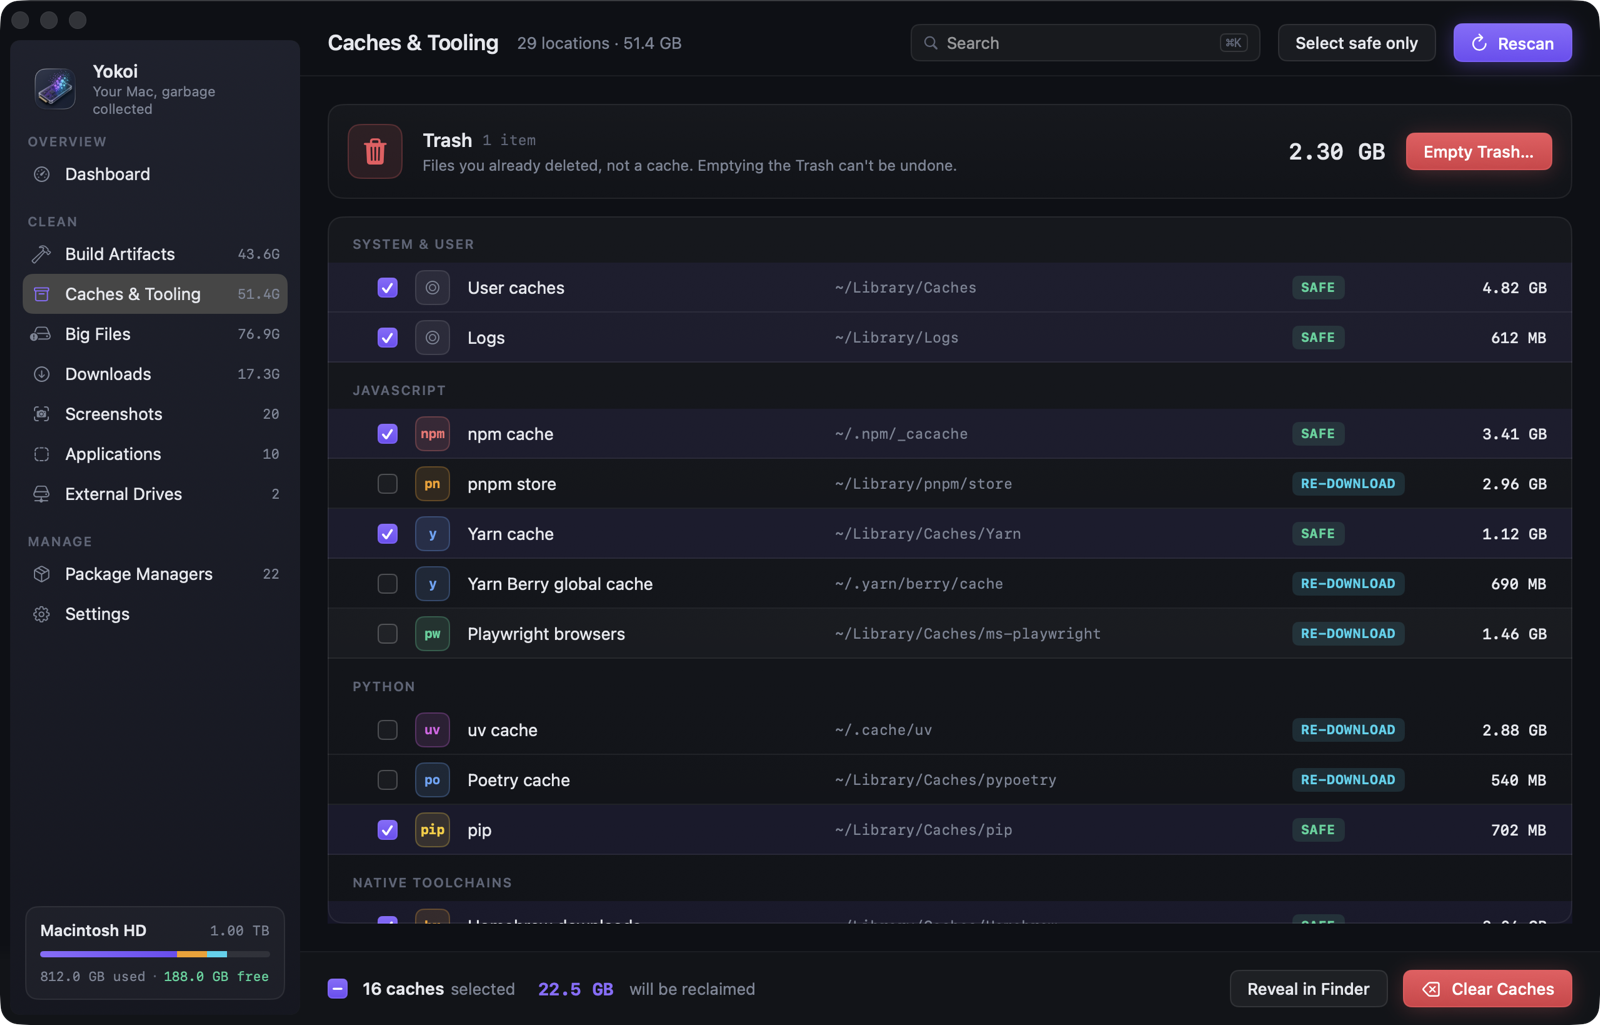
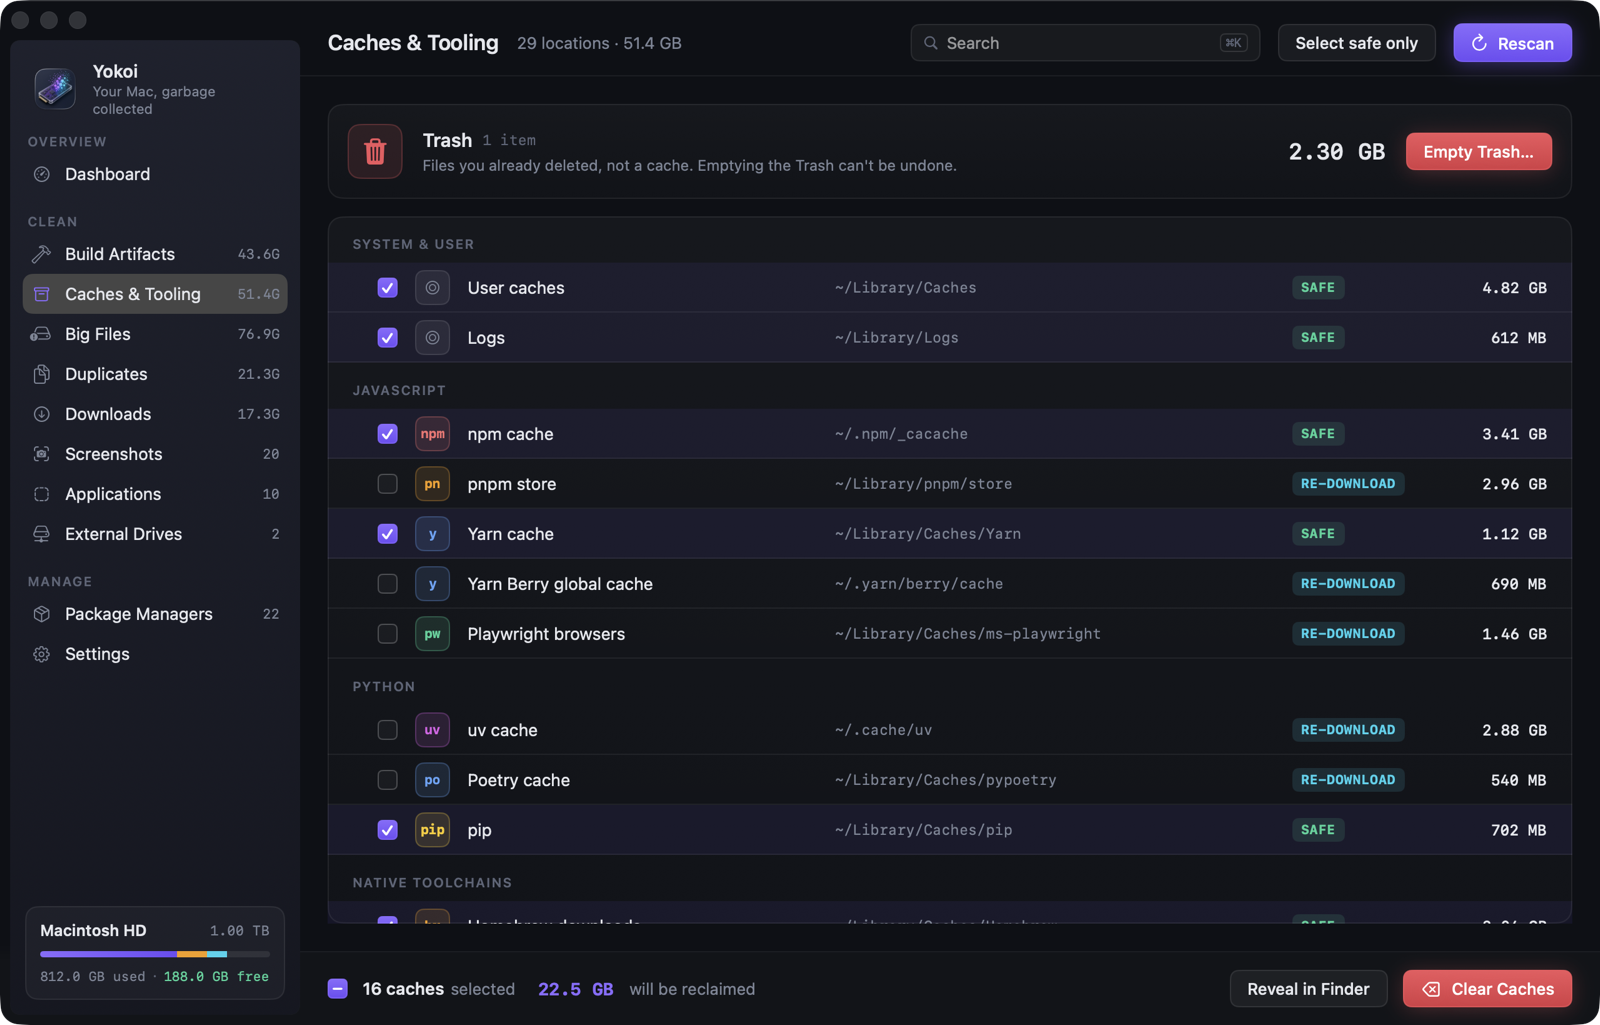
Document the duplicate finder and refresh the screenshots

Changed region(s): [[0.0, 0.3434, 0.125, 0.6556]]

diff --git a/site/index.html b/site/index.html
@@ -81,7 +81,7 @@
       <div class="wrap">
         <figure class="shot shot-hero reveal">
           <div class="shot-glow" aria-hidden="true"></div>
-          <img src="img/dashboard.webp" width="1600" height="1025" alt="Yokoi dashboard: 203 GB reclaimable, broken down by category, with recent cleanups and top offenders" fetchpriority="high">
+          <img src="img/dashboard.webp" width="1600" height="1025" alt="Yokoi dashboard: 218 GB reclaimable, broken down by category, with recent cleanups and top offenders" fetchpriority="high">
         </figure>
       </div>
     </section>
@@ -132,6 +132,12 @@
           <h3>Big files</h3>
           <p>Videos, archives, disk images, VMs, 3D and art files, found with a log-scale slider from 100&nbsp;MB to 10&nbsp;GB+.</p>
           <p class="rule">Filter by type, then reveal in Finder or clean.</p>
+        </article>
+        <article class="card reveal" style="--c:#2DD4BF">
+          <div class="card-top"><span class="ico">👯</span><span class="badge mono">SHA-256</span></div>
+          <h3>Duplicates</h3>
+          <p>Files with identical contents across your big-file locations, or in one folder you choose.</p>
+          <p class="rule">One copy always stays. Copies that are all inside git repos aren't listed unless you choose that folder.</p>
         </article>
         <article class="card reveal" style="--c:#34D399">
           <div class="card-top"><span class="ico">⬇</span><span class="badge mono">~/Downloads</span></div>
@@ -197,6 +203,7 @@
         <button role="tab" aria-selected="true" data-shot="npm-node-modules" data-cap="Every node_modules folder, stale ones preselected">node_modules</button>
         <button role="tab" aria-selected="false" data-shot="build-artifacts" data-cap="Build artifacts grouped by toolchain, matched by marker files">Build artifacts</button>
         <button role="tab" aria-selected="false" data-shot="caches" data-cap="Caches &amp; Tooling tagged Safe, Re-download or Review, with the Trash on its own">Caches &amp; Tooling</button>
+        <button role="tab" aria-selected="false" data-shot="duplicates" data-cap="Identical files, grouped, with one copy always kept">Duplicates</button>
         <button role="tab" aria-selected="false" data-shot="applications" data-cap="Uninstall apps together with their leftovers">Applications</button>
         <button role="tab" aria-selected="false" data-shot="package-managers" data-cap="Outdated and unused global packages">Packages</button>
         <button role="tab" aria-selected="false" data-shot="screenshots" data-cap="File screenshots by month, or clear them out">Screenshots</button>
@@ -222,6 +229,7 @@
           <div class="srow reveal"><span class="sdot" style="--c:#7C5CFF"></span><div><h4>Dry run</h4><p>Preview exactly what would happen, with sizes, without touching a byte.</p></div></div>
           <div class="srow reveal"><span class="sdot" style="--c:#22D3EE"></span><div><h4>Scoped access</h4><p>Each category can only touch its own folders. Keychains, Mail, Messages, iCloud Drive, Photos, <code>/System</code> and <code>.git</code> are blocked unconditionally.</p></div></div>
           <div class="srow reveal"><span class="sdot" style="--c:#F59E0B"></span><div><h4>Busy means no</h4><p>Projects open in Xcode, Unity, Unreal or a running <code>node</code> process are refused, checked when you confirm and again right before acting. Recently touched projects start unchecked.</p></div></div>
+          <div class="srow reveal"><span class="sdot" style="--c:#2DD4BF"></span><div><h4>One copy stays</h4><p>The duplicate finder won't let you pick every copy of a file. Right before removing a copy, Yokoi reads it and a copy being kept again, and refuses if they no longer match.</p></div></div>
           <div class="srow reveal"><span class="sdot" style="--c:#F0565E"></span><div><h4>No escalation, symlink-proof</h4><p>Never runs <code>sudo</code>. Tools run without a shell, from a full path you see before confirming, and only from folders you or an administrator control. Symlinks are removed, never followed, and paths are re-checked at their real location.</p></div></div>
           <div class="srow reveal"><span class="sdot" style="--c:#60A5FA"></span><div><h4>Everything is logged</h4><p>Every cleanup goes to <code>cleanup.log</code> with path, size, action and where it went.</p></div></div>
         </div>

diff --git a/site/styles.css b/site/styles.css
@@ -182,6 +182,7 @@ h2 { margin: 0; font-size: clamp(30px, 4.4vw, 46px); line-height: 1.1; letter-sp
 
 /* Category cards */
 .cards { display: grid; grid-template-columns: repeat(3, 1fr); gap: 16px; }
+.cards > .card:last-child:nth-child(3n + 1) { grid-column: 1 / -1; }  /* no lone card on the last row */
 .card {
   position: relative; padding: 22px; border-radius: var(--r); overflow: hidden;
   background: linear-gradient(180deg, var(--card), var(--card-2)); border: 1px solid var(--stroke);
@@ -340,6 +341,7 @@ kbd {
   .nav-links { display: none; }
   .nav-cta { margin-left: auto; }
   .cards { grid-template-columns: repeat(2, 1fr); }
+  .cards > .card:last-child:nth-child(3n + 1) { grid-column: auto; }
   .kpis { grid-template-columns: repeat(2, 1fr); }
   .safety, .split { grid-template-columns: 1fr; gap: 40px; }
   .footer-inner { grid-template-columns: 1fr; }

diff --git a/README.md b/README.md
@@ -57,6 +57,7 @@ Yokoi knows where developer clutter lives and what's safe to remove. It shows yo
 | **🗄 Caches & Tooling** | JavaScript (npm, Yarn, pnpm, Bun, Deno, Playwright, Puppeteer, Electron), Python (pip, uv, Poetry), Homebrew, Cargo, Go modules, Gradle, Maven, NuGet, Flutter, SwiftPM, CocoaPods, Xcode and simulators, **Android emulators, system images and build cache**, VS Code, Cursor and JetBrains caches, Docker Desktop and OrbStack, browsers, Ollama / Hugging Face / LM Studio, Trash | Every location is tagged **Safe**, **Re-download** or **Review**. Sizes count only what cleaning frees, so caches shared with projects through hardlinks or clones aren't overstated. Running emulators, simulators, Gradle daemons, editors and Docker block their own caches |
 | **🧰 Tool cleanups** | Unavailable iOS simulators, local Time Machine snapshots, **unused Docker images, Docker build cache and dangling volumes** | Done through the tool itself (`xcrun simctl`, `tmutil`, `docker`), with the exact command shown first. Volumes are listed by name, so nothing created later is swept up |
 | **🐘 Big files** | Videos, archives, disk images, VMs (`.utm`, `.vmdk`…), 3D and art files | Log-scale size slider from 100 MB to 10 GB+, with filters by type |
+| **👯 Duplicates** | Files of 1 MB or more with identical contents, across your big-file locations or in one folder you choose | Compared by SHA-256, only when you ask, because it reads the files. One copy always stays. Copies that are all inside git repos aren't listed unless you choose that folder, and sizes count what removing a copy really frees |
 | **⬇ Downloads** | Everything in `~/Downloads`: installers, archives, media, documents and folders, with when each was added and last opened | Items untouched for 30 days (configurable) count as reclaimable. Incomplete downloads and archives you already extracted are flagged as leftovers; your own files are never preselected |
 | **📸 Screenshots** | Screenshots and screen recordings in your screenshot folder | File them into `YYYY/MM` folders or trash them, by hand or with a daily rule |
 | **🧩 Applications** | Installed apps with size, last opened, and their leftovers in `~/Library` | Uninstalls the app *and* its support files. Apple apps and running apps are locked |
@@ -102,6 +103,10 @@ Adding a language is one entry in a rule table. See [docs/DEVELOPMENT.md](docs/D
     <td><img src="assets/readme/screenshots/external-drives.png" alt="External drive junk: Trash, .DS_Store and AppleDouble files"><br><sub><b>External drives</b> · drive Trash, .DS_Store and ._ files</sub></td>
   </tr>
   <tr>
+    <td><img src="assets/readme/screenshots/duplicates.png" alt="Groups of identical files with the space each copy would free"><br><sub><b>Duplicates</b> · identical files, grouped, with one copy always kept</sub></td>
+    <td><img src="assets/readme/screenshots/downloads.png" alt="Downloads with when each item was added and last opened"><br><sub><b>Downloads</b> · what's in there, and when you last opened it</sub></td>
+  </tr>
+  <tr>
     <td><img src="assets/readme/screenshots/screenshots.png" alt="Desktop screenshots grid with move-to-folder action"><br><sub><b>Screenshots</b> · file them by month, or clear them out</sub></td>
     <td><img src="assets/readme/screenshots/cleaned.png" alt="Cleanup finished"><br><sub><b>Done</b> · what was freed, and Put Back if you change your mind</sub></td>
   </tr>
@@ -120,6 +125,7 @@ Yokoi deletes things for a living, so it's built to be paranoid.
 - **Hands off your life.** Keychains, Mail, Messages, iCloud Drive, cloud storage, Photos libraries, `/System` and `.git` are blocked unconditionally, even if you add them by accident.
 - **Busy means no.** Projects open in Xcode, Unity, Unreal or a running `node` process, running apps, and Android emulators that are booted are refused. Yokoi checks twice: when you confirm and again right before acting.
 - **Recent means careful.** Projects you touched in the last 14 days start unchecked and need an extra confirmation.
+- **One copy stays.** The duplicate finder won't let you pick every copy of a file. Right before removing a copy, Yokoi reads it and a copy being kept again, and refuses if they no longer match.
 - **No escalation.** Yokoi never runs `sudo`. Command-line tools are run without a shell, and arguments are passed literally, so package names can't inject commands.
 - **Trusted tools only.** Each tool (`brew`, `npm`, `docker`…) is looked up once and run from its full path, which the confirmation shows. Folders and files another account could write to are skipped, so a look-alike `npm` dropped somewhere on your `PATH` isn't picked up.
 - **Symlink-proof.** Symlinks are removed, never followed. Paths are checked both as written and with symlinks resolved, and checked again at their real location right before anything is trashed, deleted or moved.
@@ -182,6 +188,7 @@ Yokoi works without it too. It just skips what it can't read.
 - **Scan** from the dashboard or with `⌘⇧R`. Results appear as they're found.
 - **Clean ·** on the dashboard runs *Smart Select*: stale node_modules, artifacts of inactive projects and Safe caches.
 - Search any list with `⌘K`, rescan the current screen with `⌘R`, and clean the selection with `⌘⌫`.
+- **Find duplicates** from the Duplicates screen, across your big-file locations or in one folder. It's separate from the regular scan and isn't part of the reclaimable total, so nothing is counted twice.
 - Optional **menu bar helper** shows free and reclaimable space, with one-click access.
 - Optional **scheduled scans** (daily, weekly or monthly) run at low priority, with a notification when reclaimable space passes a threshold.
 - **Shortcuts and Siri:** *Scan for Reclaimable Space* (returns bytes), *Get Free Disk Space* and *Open Yokoi* on any screen. None of them deletes anything.
@@ -267,6 +274,7 @@ It's the same idea as in a runtime: find what's no longer reachable from your ac
 - [x] Incremental rescans (FSEvents)
 - [x] `yokoi` command-line companion (`yokoi scan --json`)
 - [x] Shortcuts and App Intents
+- [x] Duplicate finder
 - [ ] A separate helper with fewer rights for deleting files and running tools
 
 <br>

diff --git a/docs/PRD.md b/docs/PRD.md
@@ -26,7 +26,6 @@ Developers' Macs fill up with files they can rebuild or re-download: `node_modul
 
 **Non-goals (v1)**
 - General consumer "Mac cleaner" features (mail attachments, language packs, malware, RAM boosting).
-- Duplicate-file detection (could come later).
 - Managing project dependencies beyond deleting folders (no `npm install` orchestration).
 - Windows/Linux versions or cloud sync.
 - Uninstalling apps.
@@ -142,6 +141,17 @@ Developers' Macs fill up with files they can rebuild or re-download: `node_modul
 - Radio choice: **Move to Trash** (default) / **Delete permanently** (red, "cannot be undone").
 - "Don't ask again" only applies to Safe-level items and never to permanent deletion.
 
+### 5.9 Duplicates
+- FR-D1 Find files of 1 MB or more with identical contents (SHA-256), in the big-file locations or in one chosen folder, skipping what Big files skips (FR-F5). The folder must be in a big-file location, since those bound what cleanup may reach.
+- FR-D2 Runs only when asked for. It reads files in full, so full and background scans, the CLI and Shortcuts leave it out. Its bytes aren't in the reclaimable total, because they overlap Big files and Downloads.
+- FR-D3 Group copies by contents, biggest saving first. Each copy shows its path, modified date and what removing it frees. Row actions are Reveal in Finder and Quick Look.
+- FR-D4 Hardlinks count as one file. Groups of APFS clones that would free nothing aren't listed.
+- FR-D5 Groups with every copy inside git work trees aren't listed, unless a folder was chosen. Copies in a repository are tagged and kept first.
+- FR-D6 Nothing is preselected. "Select Extras" picks all but the best copy in each group and never picks a copy in a repository. The best copy is one in a repository, then one outside Downloads, then the shortest path.
+- FR-D7 One copy always stays. The last unpicked copy can't be picked, and cleanup refuses a removal unless the copy still matches its hash and another copy outside that cleanup does too, read again right before acting.
+- FR-D8 Move to Trash, with permanent delete only from the confirmation sheet. No Move to…: a moved copy frees nothing.
+- FR-D9 Cloud-only files are never read, since that would download them. They're listed as not checked, along with unreadable files.
+
 ## 6. Deletion safety model
 | Guardrail | Requirement |
 |---|---|
@@ -219,7 +229,7 @@ Developers' Macs fill up with files they can rebuild or re-download: `node_modul
 |---|---|
 | **MVP (v1.0)** | Dashboard, node_modules, Build Artifacts (Rust, Xcode, Swift PM, Gradle, Python, Unity, Unreal), Caches (Safe + Re-download levels), Big Files, Screenshots (manual move/delete), confirmation sheet, Trash default + dry run + exclusions + active-project protection + log, Settings (locations, exclusions, safety), direct distribution, macOS 14+ |
 | **v1.1** | Package managers (npm -g, pnpm -g, Homebrew formulae/casks, Cargo, pip, gem) with update/uninstall confirmation, screenshot auto rule, scheduling + menu bar helper + notifications, Go/.NET/CMake detectors, Xcode simulators/archives (Review level), undo from log, light mode |
-| **Later (v1.2+)** | FSEvents incremental index, duplicate finder, Docker images/volumes, Android SDK/emulators, conda/poetry/uv, per-project "archive & restore" (lockfile kept, deps removed), CLI companion (`yokoi scan --json`), App Store Lite edition, Shortcuts/AppIntents |
+| **Later (v1.2+)** | FSEvents incremental index, duplicate finder (built, see §5.9), Docker images/volumes, Android SDK/emulators, conda/poetry/uv, per-project "archive & restore" (lockfile kept, deps removed), CLI companion (`yokoi scan --json`), App Store Lite edition, Shortcuts/AppIntents |
 
 ## 13. Risks & open questions
 **Risks**
